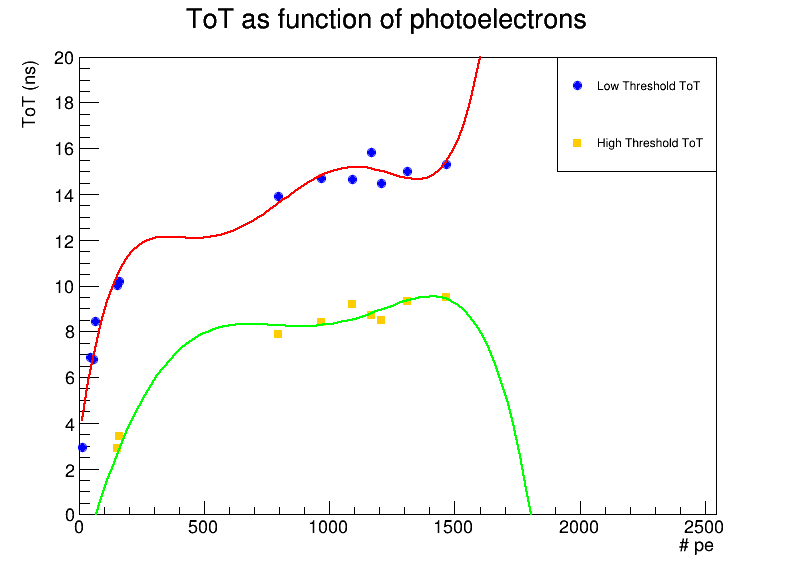
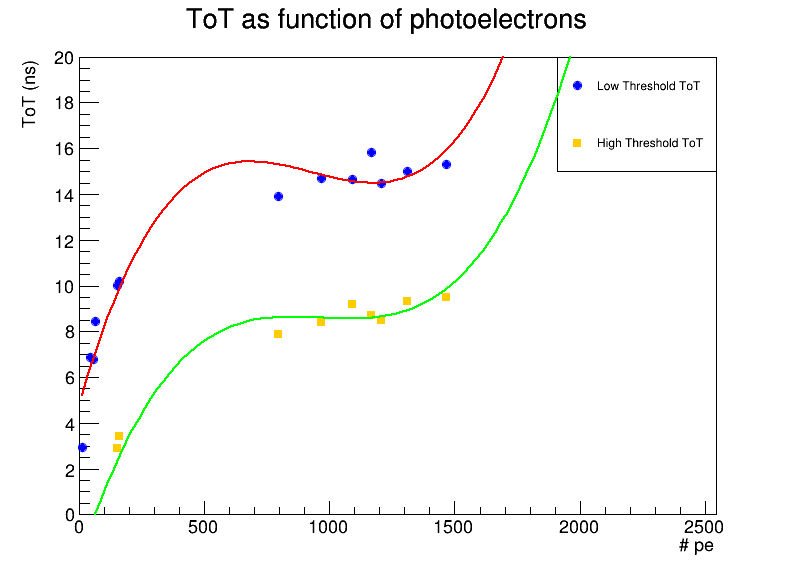
new commit

diff --git a/time_distribution_graph.C b/time_distribution_graph.C
@@ -261,8 +261,8 @@ int main() {
     legend->Draw();
 
     // Esegui il fitting dei dati
-    TF1 *fit_low = new TF1("fit_low", "pol5", 0, 2500); // Fitting con un polinomio di secondo grado
-    TF1 *fit_high = new TF1("fit_high", "pol5", 0, 2500);
+    TF1 *fit_low = new TF1("fit_low", "pol3", 0, 2500); // Fitting con un polinomio di secondo grado
+    TF1 *fit_high = new TF1("fit_high", "pol3", 0, 2500);
 
     gr_low->Fit(fit_low, "R");
     gr_high->Fit(fit_high, "R");
